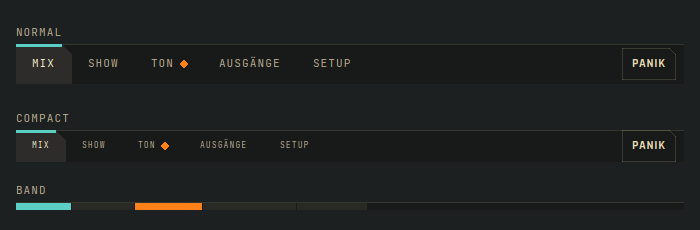
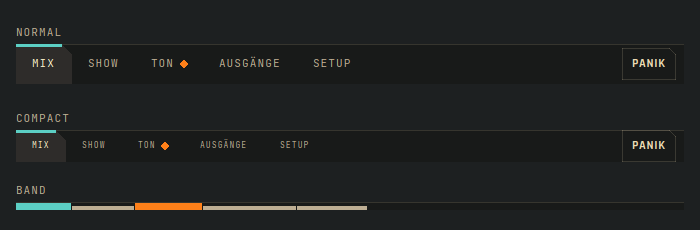
Let the band's pages stand out, name them
In Band the other pages were tint1 on the sunken ground, about 1.2:1,
so the strip hardly showed how many pages there are and where to
click. They are now in the muted text colour (at least 3:1 in Kante,
Leinen and Kante Light) and half as high, so the current and a busy
page also stand out by height. With tooltips of its own, Band showed
only the tip; it now shows the page's name, then the tip.

The 1.54 log gets its shots in CHANGELOG.md too, and a shot of the
month grid's day dots and range.

Changed region(s): [[0.27, 0.8826, 0.54, 0.913], [0.09, 0.8826, 0.21, 0.913]]

diff --git a/docs/index.html b/docs/index.html
@@ -138,16 +138,17 @@
         <p class="release-lead" lang="de">Die Seitenleiste kann niedriger sein, bis hin zu einem Farbband, und das Monatsraster markiert seine Tage.</p>
         <div class="release-group" data-kind="new"><h3><span lang="en">New</span><span lang="de">Neu</span></h3>
           <ul lang="en">
-            <li><code>KantePageBar</code> gets <code>density</code>: Compact (lower, smaller labels; it grows for a small button at its end) and Band (one coloured segment per page, the name as tooltip). lmix's operators want the room for their inputs.</li>
+            <li><code>KantePageBar</code> gets <code>density</code>: Compact (lower, smaller labels; it grows for a small button at its end) and Band (one segment per page, the others half as high; the name as tooltip). lmix's operators want the room for their inputs.</li>
             <li><code>KanteCalendarGrid</code> marks days with up to three dots (<code>dots</code>) and tints a range of days (<code>rangeFrom</code>, <code>rangeTo</code>), as Kurrent's Agenda needs for appointments, tasks and the days a view shows.</li>
           </ul>
           <ul lang="de">
-            <li><code>KantePageBar</code> bekommt <code>density</code>: Compact (niedriger, kleinere Schrift; wächst für einen kleinen Knopf am Ende) und Band (ein farbiger Abschnitt je Seite, der Name als Tooltip). Wer lmix bedient, braucht den Platz für die Inputs.</li>
+            <li><code>KantePageBar</code> bekommt <code>density</code>: Compact (niedriger, kleinere Schrift; wächst für einen kleinen Knopf am Ende) und Band (ein Abschnitt je Seite, die übrigen halb so hoch; der Name als Tooltip). Wer lmix bedient, braucht den Platz für die Inputs.</li>
             <li><code>KanteCalendarGrid</code> markiert Tage mit bis zu drei Punkten (<code>dots</code>) und tönt einen Zeitraum (<code>rangeFrom</code>, <code>rangeTo</code>), wie ihn Kurrents Agenda für Termine, Aufgaben und die gezeigten Tage braucht.</li>
           </ul>
         </div>
         <div class="release-shots">
-          <figure><img src="shots/release-1.54-pagebar.png" alt="Three page bars in dark Kante with the pages Mix, Show, Ton, Ausgänge and Setup and a Panik button: Normal; Compact, lower with smaller labels, the button as high as before; Band, a thin strip of segments, Mix in cyan and Ton in orange" loading="lazy"><figcaption><span lang="en">The page bar in Normal, Compact and Band</span><span lang="de">Die Seitenleiste in Normal, Compact und Band</span></figcaption></figure>
+          <figure><img src="shots/release-1.54-pagebar.png" alt="Three page bars in dark Kante with the pages Mix, Show, Ton, Ausgänge and Setup and a Panik button: Normal; Compact, lower with smaller labels, the button as high as before; Band, a thin strip of segments, Mix in cyan and Ton in orange at full height, the other pages half as high in grey" loading="lazy"><figcaption><span lang="en">The page bar in Normal, Compact and Band</span><span lang="de">Die Seitenleiste in Normal, Compact und Band</span></figcaption></figure>
+          <figure><img src="shots/release-1.54-calendar.png" alt="Two month grids of October 2026 in dark Kante: on the left square dots in the top right of the 5th, 12th, 20th and 27th, up to three per day; on the right the days 19 to 25 tinted as a range" loading="lazy"><figcaption><span lang="en">Day dots and a range in the month grid</span><span lang="de">Tagespunkte und ein Zeitraum im Monatsraster</span></figcaption></figure>
         </div>
         <a class="release-notes" href="https://github.com/shrippen/Kante/blob/main/README.md#added-in-kante-154"><span lang="en">All changes in 1.54 →</span><span lang="de">Alle Änderungen in 1.54 →</span></a>
       </div>

diff --git a/qml/Kante/KantePageBar.qml b/qml/Kante/KantePageBar.qml
@@ -23,11 +23,11 @@ import "."
  * `density` (1.54) saves height: Normal (heightMedium), Compact (three quarters of heightSmall,
  * at least as high as the leading and trailing items; smaller labels) and Band, a strip of
  * unit(8) with one coloured segment per page in place of the labels: the current page in the
- * focus colour, a busy page in its kind's colour, the others quiet; the label shows as the
- * tooltip and stays the tab's accessible name. In Band the leading and trailing items are hidden
- * (they do not fit the strip); the app shows them elsewhere. The segments tell the busy kinds by
- * colour only, and the current page shows no busy state: keep Normal or Compact where an error
- * must be seen.
+ * focus colour, a busy page in its kind's colour, the others half as high in the muted text
+ * colour; the tooltip shows the label (then the page's tooltip), which stays the tab's
+ * accessible name. In Band the leading and trailing items are hidden (they do not fit the
+ * strip); the app shows them elsewhere. The segments tell the busy kinds apart by colour only,
+ * and the current page shows no busy state: keep Normal or Compact where an error must be seen.
  */
 FocusScope {
     id: bar
@@ -223,16 +223,20 @@ FocusScope {
                         visible: !bar.band && !tab.current && hover.hovered
                         color: KanteStyle.tint1Color
                     }
-                    // Band: one segment per page, a gap of one rule between them.
+                    // Band: one segment per page, a gap of one rule between them. The others
+                    // in the muted text colour (at least 3:1 on the ground: they show the pages
+                    // and where to click) and half as high, so the current and a busy page
+                    // stand out by their height too, not by colour alone.
                     Rectangle {
                         objectName: "kantePageSegment"
+                        readonly property bool full: tab.current || tab.busy
                         visible: bar.band
                         anchors.fill: parent
-                        anchors.topMargin: 1
+                        anchors.topMargin: full ? 1 : Math.round(parent.height / 2)
                         anchors.rightMargin: 1
                         color: tab.current ? KanteStyle.focusColor
                              : tab.busy ? bar.kindColor(tab.kind)
-                             : hover.hovered ? KanteStyle.tint2Color : KanteStyle.tint1Color
+                             : hover.hovered ? KanteStyle.strongTextColor : KanteStyle.mutedTextColor
                     }
                     // The raised current tab. Shapes outside the flickable are still painted by
                     // the software renderer (it ignores the clip for them): draw only in view.
@@ -290,7 +294,11 @@ FocusScope {
 
                     HoverHandler { id: hover }
                     TapHandler { onTapped: bar.select(tab.index) }
-                    QQC2.ToolTip.text: bar.band && tab.tip.length === 0 ? String(tab.modelData) : tab.tip
+                    // In Band the tooltip is the only place the name shows: the name, then its tip.
+                    readonly property string shownTip: !bar.band ? tab.tip
+                        : tab.tip.length > 0 ? String(tab.modelData) + "\n" + tab.tip
+                        : String(tab.modelData)
+                    QQC2.ToolTip.text: shownTip
                     QQC2.ToolTip.visible: hover.hovered && (bar.band || tab.tip.length > 0)
                     QQC2.ToolTip.delay: 500
                     Accessible.role: Accessible.PageTab

diff --git a/qml/tests/tst_kante154.qml b/qml/tests/tst_kante154.qml
@@ -119,4 +119,46 @@ TestCase {
         const top = item.mapToItem(b, 0, 0).y
         verify(top >= 0 && top + item.height <= b.height, "item from " + top + " to " + (top + item.height) + " in " + b.height)
     }
+
+    // The segments are the only mark of a page in Band, and where to click: in tint1 on
+    // the sunken ground they read at about 1.2:1, below the 3:1 of WCAG 1.4.11.
+    function test_bandSegmentsStandOut() {
+        const low = []
+        try {
+            for (const kind of [KanteStyle.Kind.Kante, KanteStyle.Kind.KanteLight]) {
+                for (const dark of [true, false]) {
+                    KanteStyle.kind = kind
+                    KanteStyle.preferDark = dark
+                    const b = createTemporaryObject(barComponent, tc.Window.contentItem, {
+                        density: KantePageBar.Density.Band, busy: [] })
+                    waitForRendering(b)
+                    const idle = named(b, "kantePageSegment").filter(visibleNow)[1]
+                    // As drawn: roles may have alpha (tints, Kante Light's platform roles);
+                    // the bar is sunken on the window's ground.
+                    const ground = Qt.tint(KanteStyle.backgroundColor, KanteStyle.sunkenColor)
+                    const drawn = Qt.tint(ground, idle.color)
+                    const ratio = KanteStyle.contrastOf(drawn, ground)
+                    if (ratio < 3) {
+                        low.push("kind " + kind + (dark ? " dark" : " light") + ": " + ratio.toFixed(2)
+                                 + " (" + drawn + " on " + ground + ")")
+                    }
+                }
+            }
+        } finally {
+            KanteStyle.kind = KanteStyle.Kind.System
+            KanteStyle.preferDark = false
+        }
+        verify(low.length === 0, low.join(", "))
+    }
+
+    // With tooltips of its own, Band showed only the tip, the page's name nowhere.
+    function test_bandTooltipKeepsTheName() {
+        const b = createTemporaryObject(barComponent, tc.Window.contentItem, {
+            density: KantePageBar.Density.Band, tooltips: ["Bild und Ton", "", ""] })
+        const t = tabs(b)
+        compare(t[0].shownTip, "Mix\nBild und Ton")
+        compare(t[1].shownTip, "Show")
+        b.density = KantePageBar.Density.Normal
+        compare(t[0].shownTip, "Bild und Ton")
+    }
 }

diff --git a/CHANGELOG.md b/CHANGELOG.md
@@ -12,8 +12,12 @@ per version. Knust and the plugin kit keep their own logs: `kimai/knust/CHANGELO
 The page bar can be lower, down to a coloured strip, and the month grid marks its days.
 
 #### New
-- `KantePageBar` gets `density`: Compact (lower, smaller labels; it grows for a small button at its end) and Band (one coloured segment per page, the name as tooltip). lmix's operators want the room for their inputs.
+- `KantePageBar` gets `density`: Compact (lower, smaller labels; it grows for a small button at its end) and Band (one segment per page, the others half as high; the name as tooltip). lmix's operators want the room for their inputs.
 - `KanteCalendarGrid` marks days with up to three dots (`dots`) and tints a range of days (`rangeFrom`, `rangeTo`), as Kurrent's Agenda needs for appointments, tasks and the days a view shows.
+
+![The page bar in Normal, Compact and Band](https://shrippen.github.io/Kante/shots/release-1.54-pagebar.png)
+
+![Day dots and a range in the month grid](https://shrippen.github.io/Kante/shots/release-1.54-calendar.png)
 
 All changes: https://github.com/shrippen/Kante/blob/main/README.md#added-in-kante-154
 
@@ -22,8 +26,12 @@ All changes: https://github.com/shrippen/Kante/blob/main/README.md#added-in-kant
 Die Seitenleiste kann niedriger sein, bis hin zu einem Farbband, und das Monatsraster markiert seine Tage.
 
 #### Neu
-- `KantePageBar` bekommt `density`: Compact (niedriger, kleinere Schrift; wächst für einen kleinen Knopf am Ende) und Band (ein farbiger Abschnitt je Seite, der Name als Tooltip). Wer lmix bedient, braucht den Platz für die Inputs.
+- `KantePageBar` bekommt `density`: Compact (niedriger, kleinere Schrift; wächst für einen kleinen Knopf am Ende) und Band (ein Abschnitt je Seite, die übrigen halb so hoch; der Name als Tooltip). Wer lmix bedient, braucht den Platz für die Inputs.
 - `KanteCalendarGrid` markiert Tage mit bis zu drei Punkten (`dots`) und tönt einen Zeitraum (`rangeFrom`, `rangeTo`), wie ihn Kurrents Agenda für Termine, Aufgaben und die gezeigten Tage braucht.
+
+![Die Seitenleiste in Normal, Compact und Band](https://shrippen.github.io/Kante/shots/release-1.54-pagebar.png)
+
+![Tagespunkte und ein Zeitraum im Monatsraster](https://shrippen.github.io/Kante/shots/release-1.54-calendar.png)
 
 Alle Änderungen: https://github.com/shrippen/Kante/blob/main/README.md#added-in-kante-154
 

diff --git a/README.md b/README.md
@@ -794,7 +794,7 @@ The keyboard view for Kontra's bass over MIDI (persona P5 Aylin, a keyboarder wh
 |---|---|---|
 | Day dots in the month grid | – | `KanteCalendarGrid.dots`: day number → list of tones (`muted`, `accent`, `negative`, `warning`, `positive`, `focus`), up to three square dots in the cell's top right. Kurrent's Agenda marks appointments, tasks and overdue tasks per day; without it the Kante style fell back to the plain grid |
 | Range in the month grid | – | `KanteCalendarGrid.rangeFrom` / `rangeTo` (day numbers, 0 = none) tint a stretch of days with `tint1Color`, such as the days a view shows |
-| Page bar density | – | `KantePageBar.density`: `Normal` (heightMedium), `Compact` (three quarters of heightSmall, at least as high as the leading and trailing items, labels 85 %) and `Band`, a strip of unit(8) with one segment per page in place of the labels (current page in the focus colour, a busy page in its kind's colour, the others tint; the label is the tooltip and stays the accessible name). Band hides the leading and trailing items, and its segments tell the kinds by colour only (the screen reader hears the kind; the current page shows no busy state): for a page whose errors must be seen, keep Normal or Compact. For lmix, whose operators want the room for the inputs |
+| Page bar density | – | `KantePageBar.density`: `Normal` (heightMedium), `Compact` (three quarters of heightSmall, at least as high as the leading and trailing items, labels 85 %) and `Band`, a strip of unit(8) with one segment per page in place of the labels (current page in the focus colour, a busy page in its kind's colour, both full height; the others half as high in the muted text colour, at least 3:1 on the ground; the tooltip shows the label, then the page's own tooltip, and the label stays the accessible name). Band hides the leading and trailing items, and its segments tell the busy kinds apart by colour only (the screen reader hears the kind; the current page shows no busy state): for a page whose errors must be seen, keep Normal or Compact. For lmix, whose operators want the room for the inputs |
 
 ### Added in Kante 1.53
 
